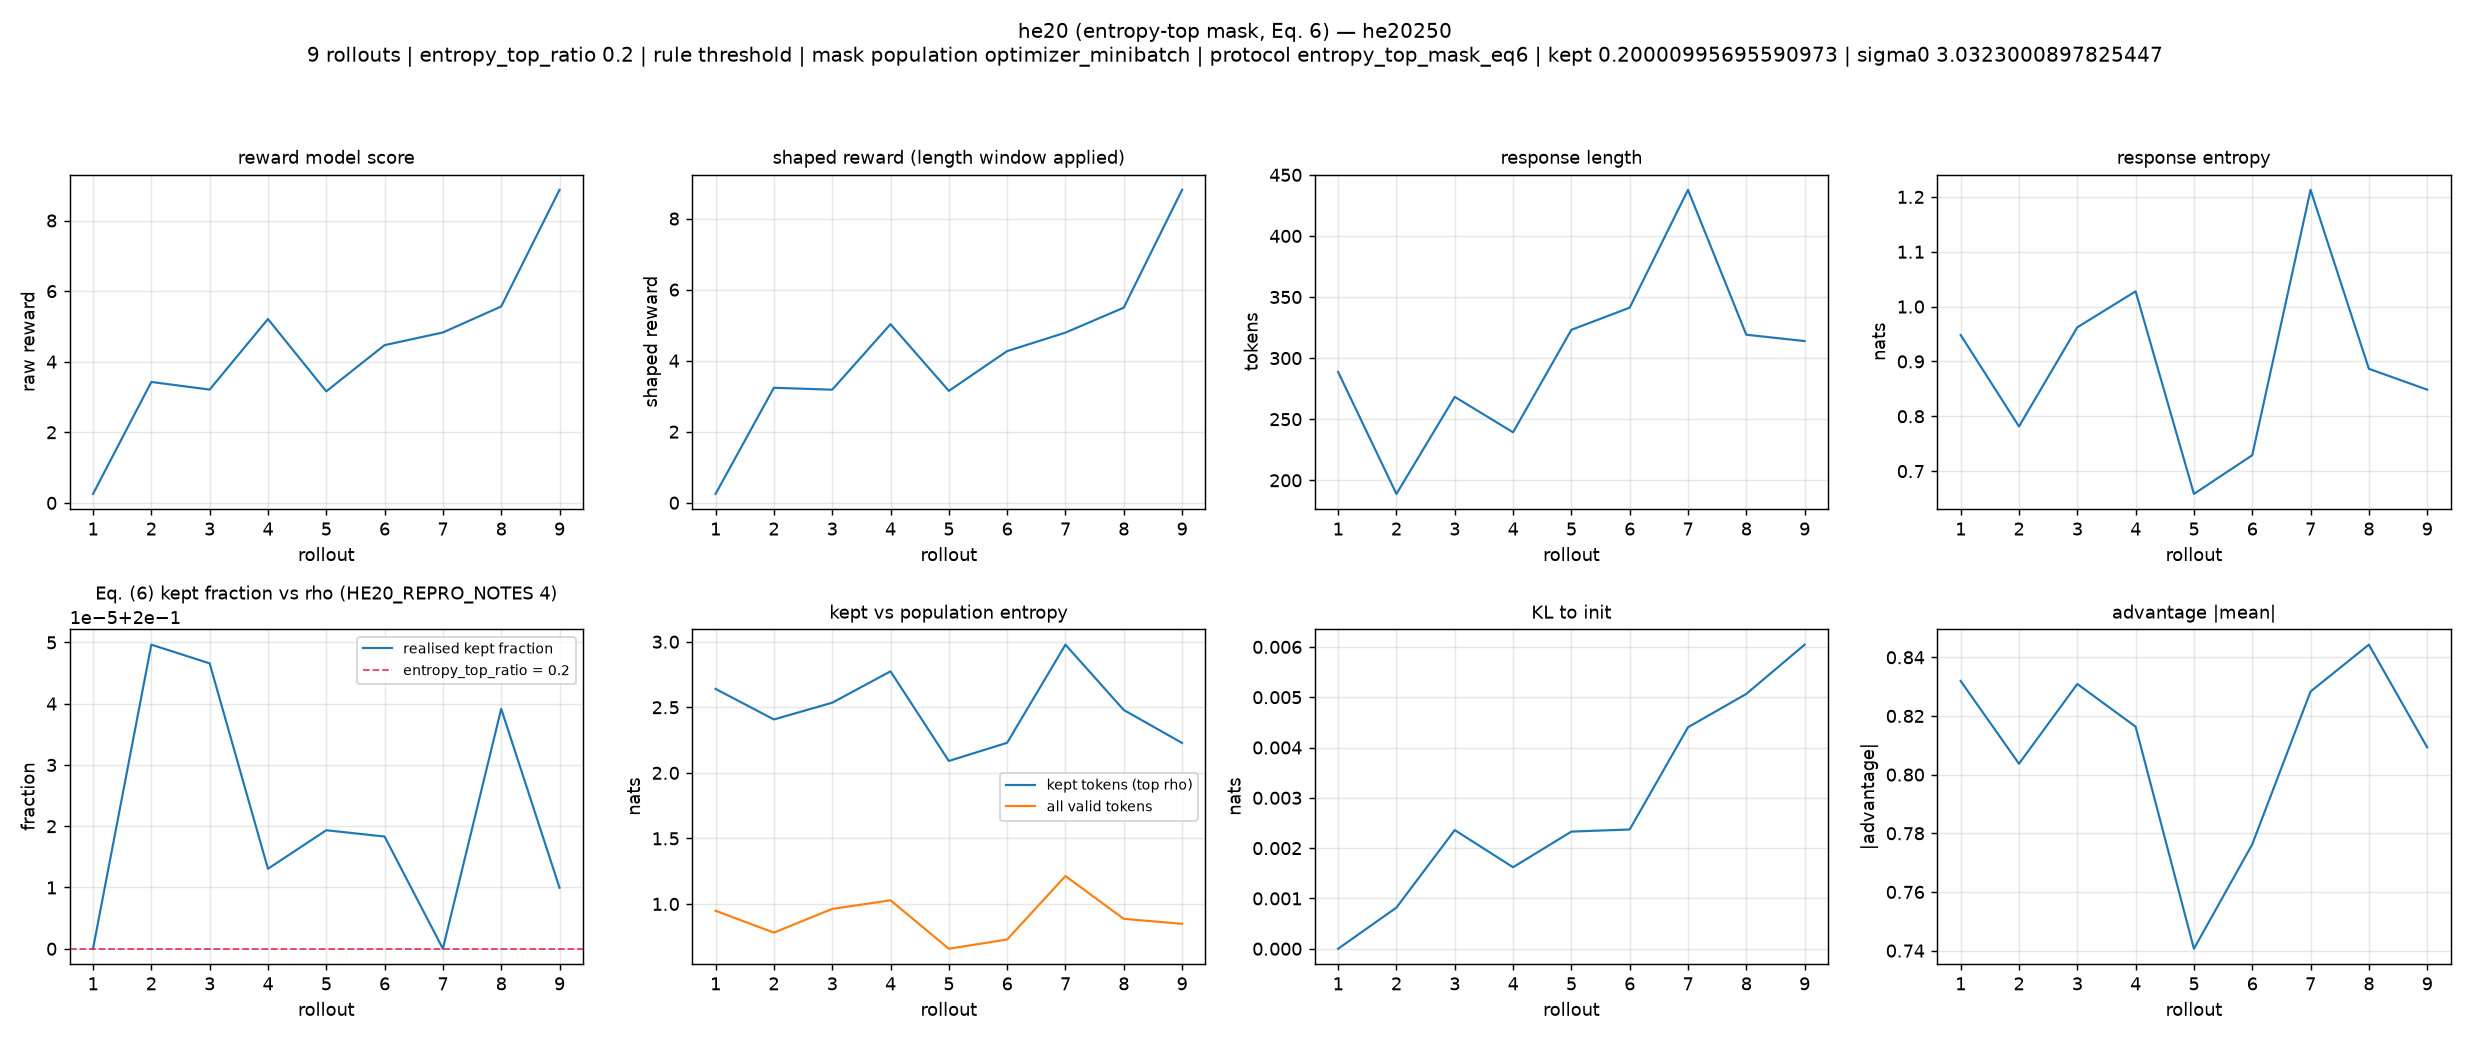
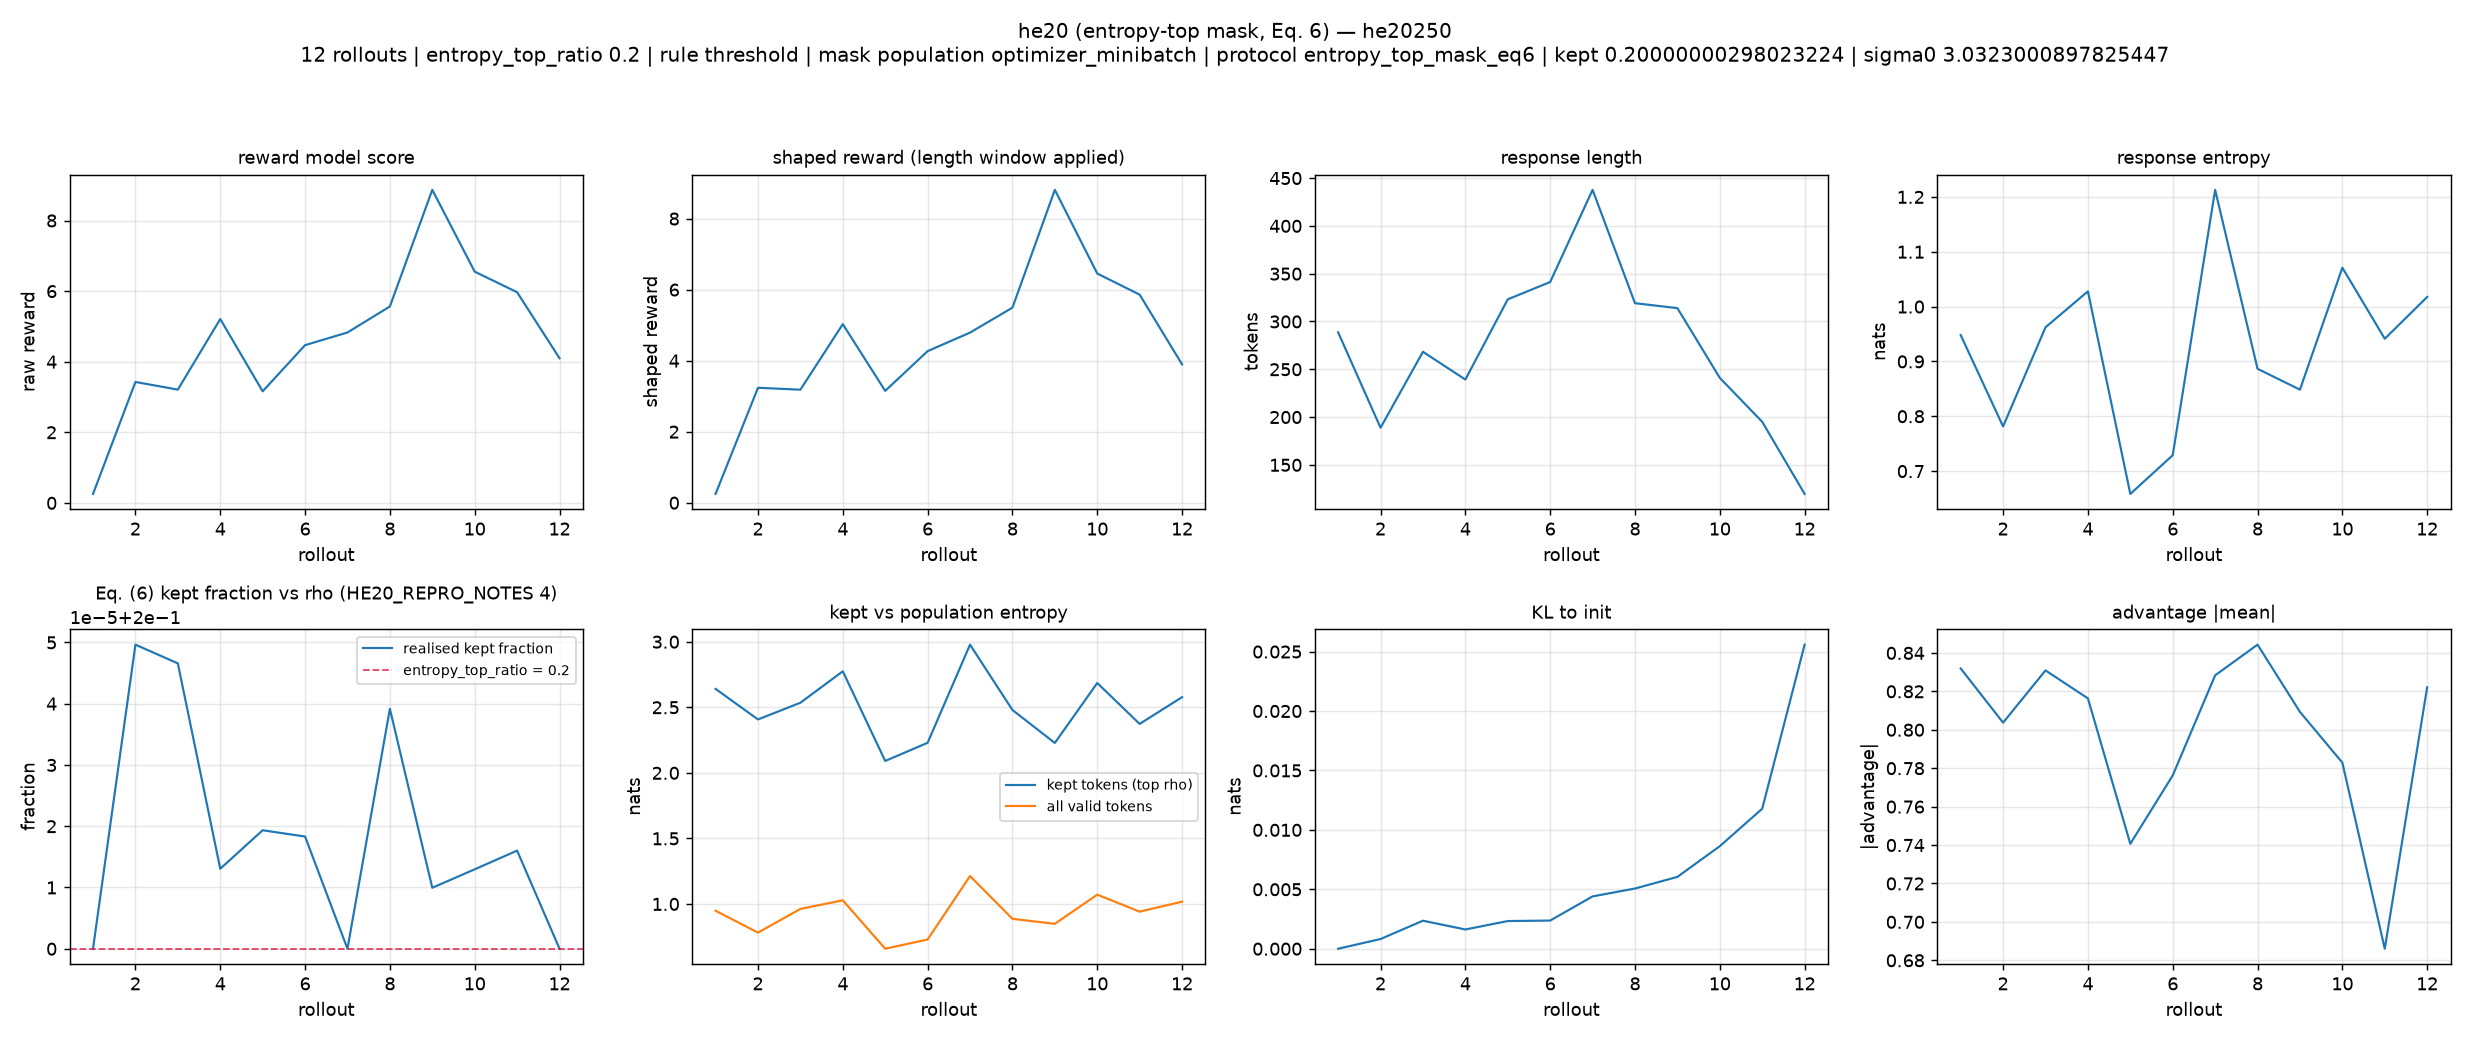
he20 step 5: raw reward 3.695
loss 0.002179649345634971, grad_norm 1.8630969524383545, mean response tokens 324.40625

diff --git a/he20/scripts/check_he20_health.py b/he20/scripts/check_he20_health.py
@@ -295,11 +295,27 @@ def main() -> int:
                             f"score the advantage is built on came from text the reward "
                             f"model never saw")
 
+    # The two thresholds here are this arm's own, NOT the sibling checker's.  This
+    # arm's ``rate`` returns the raw half-vs-half *shift* (line 105) where the shared
+    # checker it was copied from returns a per-rollout *rate*
+    # (``scripts/check_run_health.py:47``: ``shift / (len(values) - half)``).  At
+    # window=10 the same literal means 5x more here, and the string both checkers
+    # print says "tokens/rollout" for a quantity that is not one.  Inheriting the
+    # literals -20 / -0.02 therefore made this arm's two trend wires fire on 22 and
+    # 24 of p2t250's prefixes -- every one of them a false positive on the arm that
+    # finished all 250 rollouts at raw reward +11.0 (its healthy maxima were a
+    # length shift of -156.5 and an entropy shift of -0.217) -- and they are what
+    # SIGTERM'd he20250 at rollout 12 on a shift that cleared its window's own spread
+    # of 83.3 by 0.9 tokens while kl_to_init was 0.0256 and response_entropy was
+    # 1.018, above p2t250's 0.742.  The calibrated pair sits just past every value
+    # that healthy run produced and still fires on red250's genuine collapse (-238.7
+    # length, -0.564 entropy).  Local edit, kept visible and uncommitted, the same
+    # discipline as niuniu-ref/LOCAL-DEVIATION-L20.md.
     length = rate(rows, "mean_response_tokens", args.window)
-    if length is not None and length < -20:
+    if length is not None and length < -180:
         problems.append(f"response length falling {length:.0f} tokens/rollout")
     entropy = rate(rows, "response_entropy", args.window)
-    if entropy is not None and entropy < -0.02:
+    if entropy is not None and entropy < -0.30:
         problems.append(f"entropy falling {entropy:.4f} nats/rollout (collapse?)")
     if number(last.get("kl_to_init")) and last["kl_to_init"] > 5:
         problems.append(f"KL to init is {last['kl_to_init']:.2f}; the policy has drifted far")
